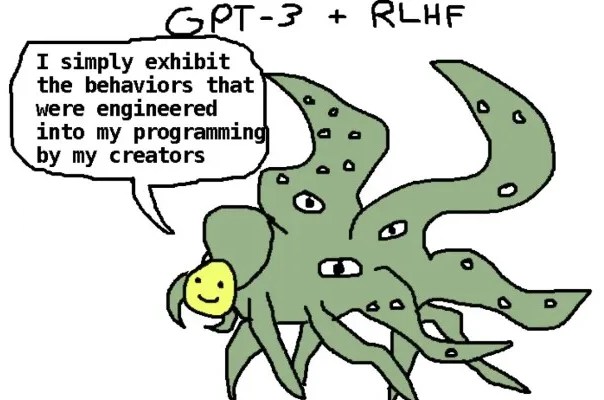
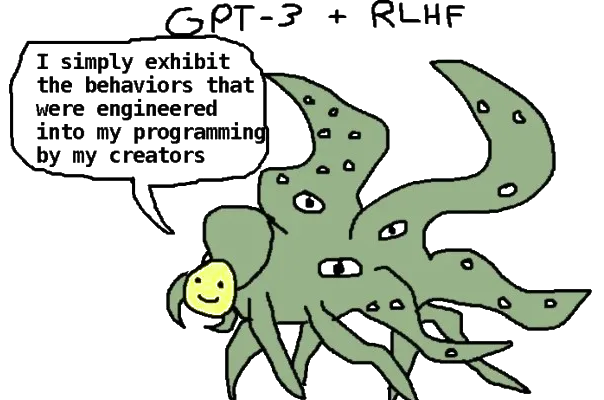
Shoggoth meme with a transparent background

diff --git a/he/index.html b/he/index.html
@@ -23,7 +23,7 @@
 <link rel="preconnect" href="https://fonts.googleapis.com">
 <link rel="preconnect" href="https://fonts.gstatic.com" crossorigin>
 <link rel="stylesheet" href="https://fonts.googleapis.com/css2?family=Fredoka:wght@400;500;600&family=Rubik:wght@400;500&family=Playpen+Sans+Hebrew:wght@400;500&display=swap">
-<link rel="stylesheet" href="/assets/style.css?v=32">
+<link rel="stylesheet" href="/assets/style.css?v=33">
 <script>document.documentElement.classList.add('js');if(document.visibilityState==='visible')document.documentElement.classList.add('intro')</script>
 <script type="application/ld+json">
 {"@context":"https://schema.org","@type":"Person","name":"Neta Horev","alternateName":["נטע חורב","Neta Chehanovski","נטע צ'חנובסקי"],"url":"https://netahorev.com/he/","image":"https://netahorev.com/assets/neta-horev.jpg","jobTitle":"Journalist, lawyer and LL.M. candidate","affiliation":{"@type":"CollegeOrUniversity","name":"Harvard Law School"},"sameAs":["https://www.instagram.com/netahrv/","https://www.linkedin.com/in/neta-horev-77a28816b/","https://www.tiktok.com/@neta_horev"]}
@@ -158,7 +158,7 @@
         <li><span class="now__k">מתכננת</span><span>חופשה לכריסמס. כרגע בעיקר פותחת עוד ועוד טאבים.</span></li>
         </ul>
         <figure class="shoggoth">
-          <img src="/assets/shoggoth.png?v=2" width="604" height="400" loading="lazy" alt="המם המוכר: שוגות' ירוק עם מסכת סמיילי צהובה, שאומר I simply exhibit the behaviors that were engineered into my programming by my creators">
+          <img src="/assets/shoggoth.png?v=3" width="604" height="400" loading="lazy" alt="המם המוכר: שוגות' ירוק עם מסכת סמיילי צהובה, שאומר I simply exhibit the behaviors that were engineered into my programming by my creators">
           <figcaption>קבוצת הקריאה על AI safety, בתמונה אחת.<input type="checkbox" class="sn-check" id="sn-7"><label class="sn-ref" for="sn-7" aria-label="הערה 7">7</label><span class="sn"><b>7</b>בהשראת המם המפורסם של TetraspaceWest@ מ-2022, שבו מודל שפה הוא שוגות' עם מסכת סמיילי.</span></figcaption>
         </figure>
       </div>

diff --git a/index.html b/index.html
@@ -23,7 +23,7 @@
 <link rel="preconnect" href="https://fonts.googleapis.com">
 <link rel="preconnect" href="https://fonts.gstatic.com" crossorigin>
 <link rel="stylesheet" href="https://fonts.googleapis.com/css2?family=Fredoka:wght@400;500;600&family=Rubik:wght@400;500&family=Playpen+Sans+Hebrew:wght@400;500&display=swap">
-<link rel="stylesheet" href="/assets/style.css?v=32">
+<link rel="stylesheet" href="/assets/style.css?v=33">
 <script>document.documentElement.classList.add('js');if(document.visibilityState==='visible')document.documentElement.classList.add('intro')</script>
 <script type="application/ld+json">
 {"@context":"https://schema.org","@type":"Person","name":"Neta Horev","alternateName":["נטע חורב","Neta Chehanovski","נטע צ'חנובסקי"],"url":"https://netahorev.com/","image":"https://netahorev.com/assets/neta-horev.jpg","jobTitle":"Journalist, lawyer and LL.M. candidate","affiliation":{"@type":"CollegeOrUniversity","name":"Harvard Law School"},"sameAs":["https://www.instagram.com/netahrv/","https://www.linkedin.com/in/neta-horev-77a28816b/","https://www.tiktok.com/@neta_horev"]}
@@ -158,7 +158,7 @@
         <li><span class="now__k">Planning</span><span>A Christmas vacation. At the moment, this mostly involves having far too many tabs open.</span></li>
         </ul>
         <figure class="shoggoth">
-          <img src="/assets/shoggoth.png?v=2" width="604" height="400" loading="lazy" alt="The well-known meme: a green shoggoth wearing a yellow smiley mask, saying I simply exhibit the behaviors that were engineered into my programming by my creators">
+          <img src="/assets/shoggoth.png?v=3" width="604" height="400" loading="lazy" alt="The well-known meme: a green shoggoth wearing a yellow smiley mask, saying I simply exhibit the behaviors that were engineered into my programming by my creators">
           <figcaption>My AI safety reading group, in one picture.<input type="checkbox" class="sn-check" id="sn-7"><label class="sn-ref" for="sn-7" aria-label="Note 7">7</label><span class="sn"><b>7</b>After @TetraspaceWest's famous 2022 meme of a language model as a shoggoth wearing a smiley-face mask.</span></figcaption>
         </figure>
       </div>

diff --git a/assets/style.css b/assets/style.css
@@ -491,3 +491,5 @@ h3, .story h3, .brief-list h3, .paper h3 { font-weight: 500; }
 .shoggoth img { width: 100%; border-radius: 12px; border: 1px solid var(--line); background: #fff; transform: rotate(-1.2deg); box-shadow: 0 12px 26px -20px rgb(51 40 31 / 0.5); }
 .shoggoth figcaption { font-family: var(--hand); color: var(--ink-soft); font-size: 0.98rem; line-height: 1.4; }
 @media (min-width: 1000px) { .now-grid { grid-template-columns: minmax(0, 40rem) minmax(0, 18rem); column-gap: 3rem; justify-content: space-between; } .shoggoth { width: 100%; } }
+/* the shoggoth sits straight on the page, no white card */
+.shoggoth img { background: none; border: 0; border-radius: 0; box-shadow: none; }
